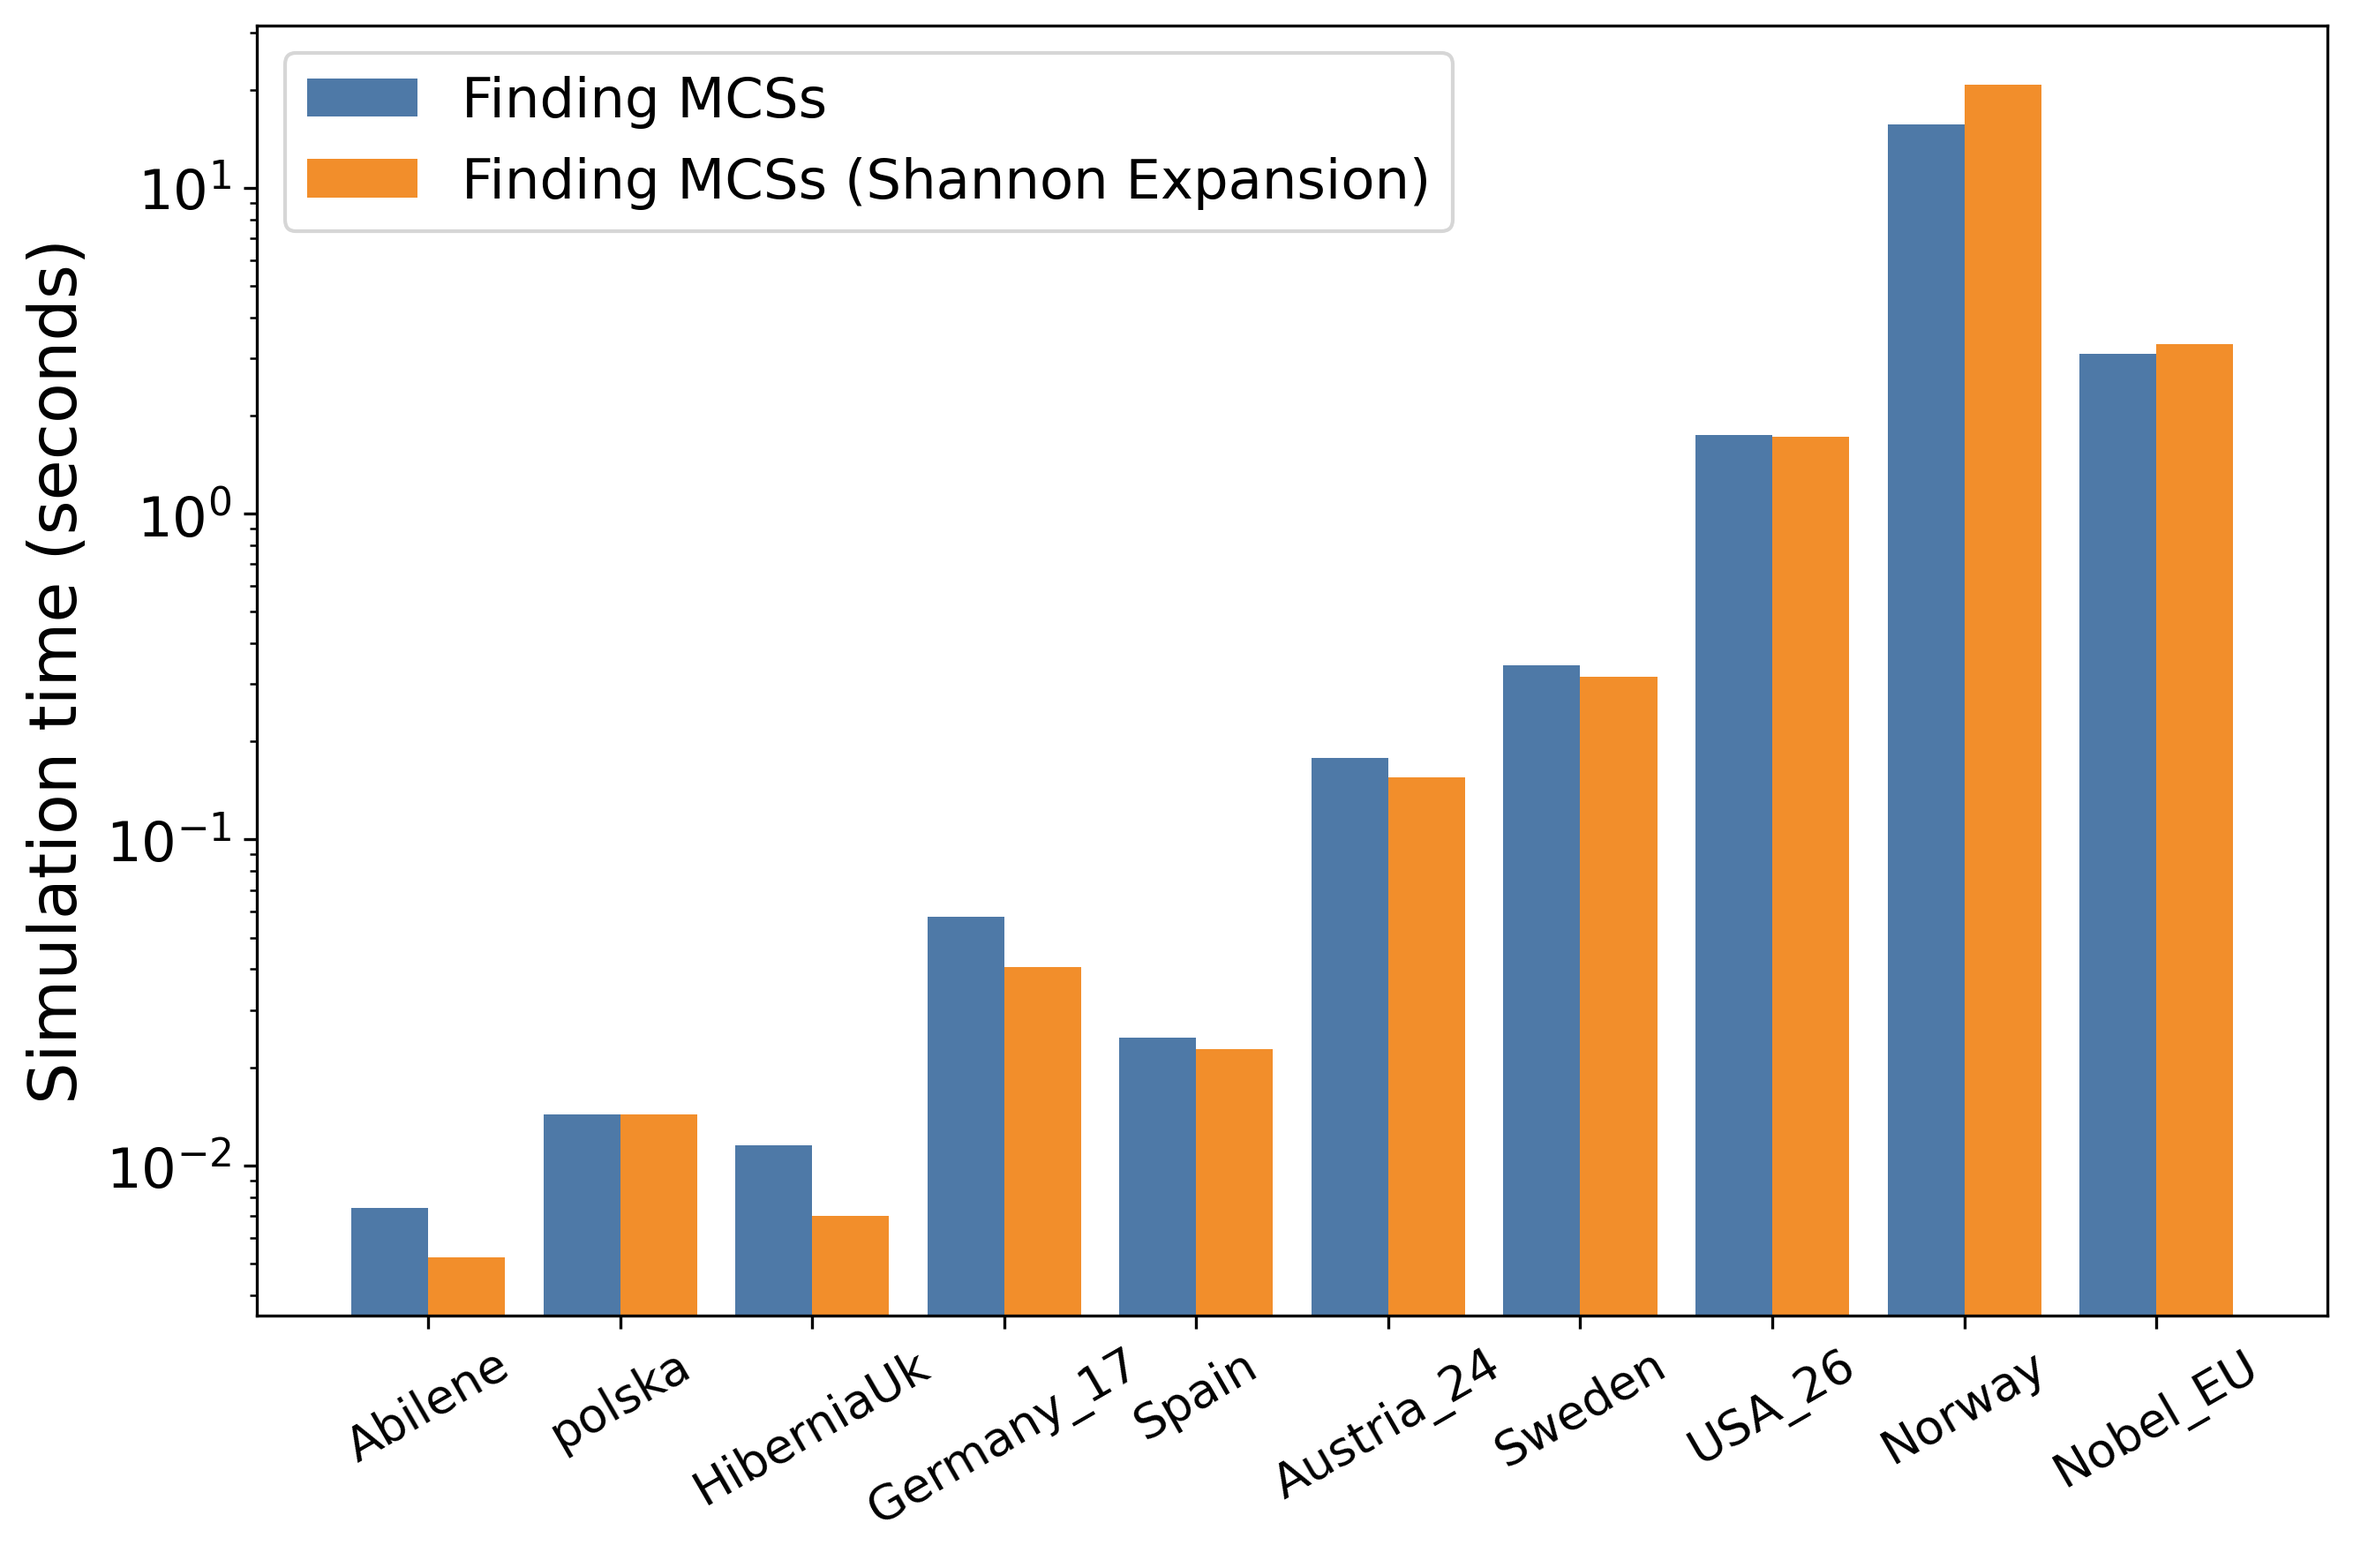
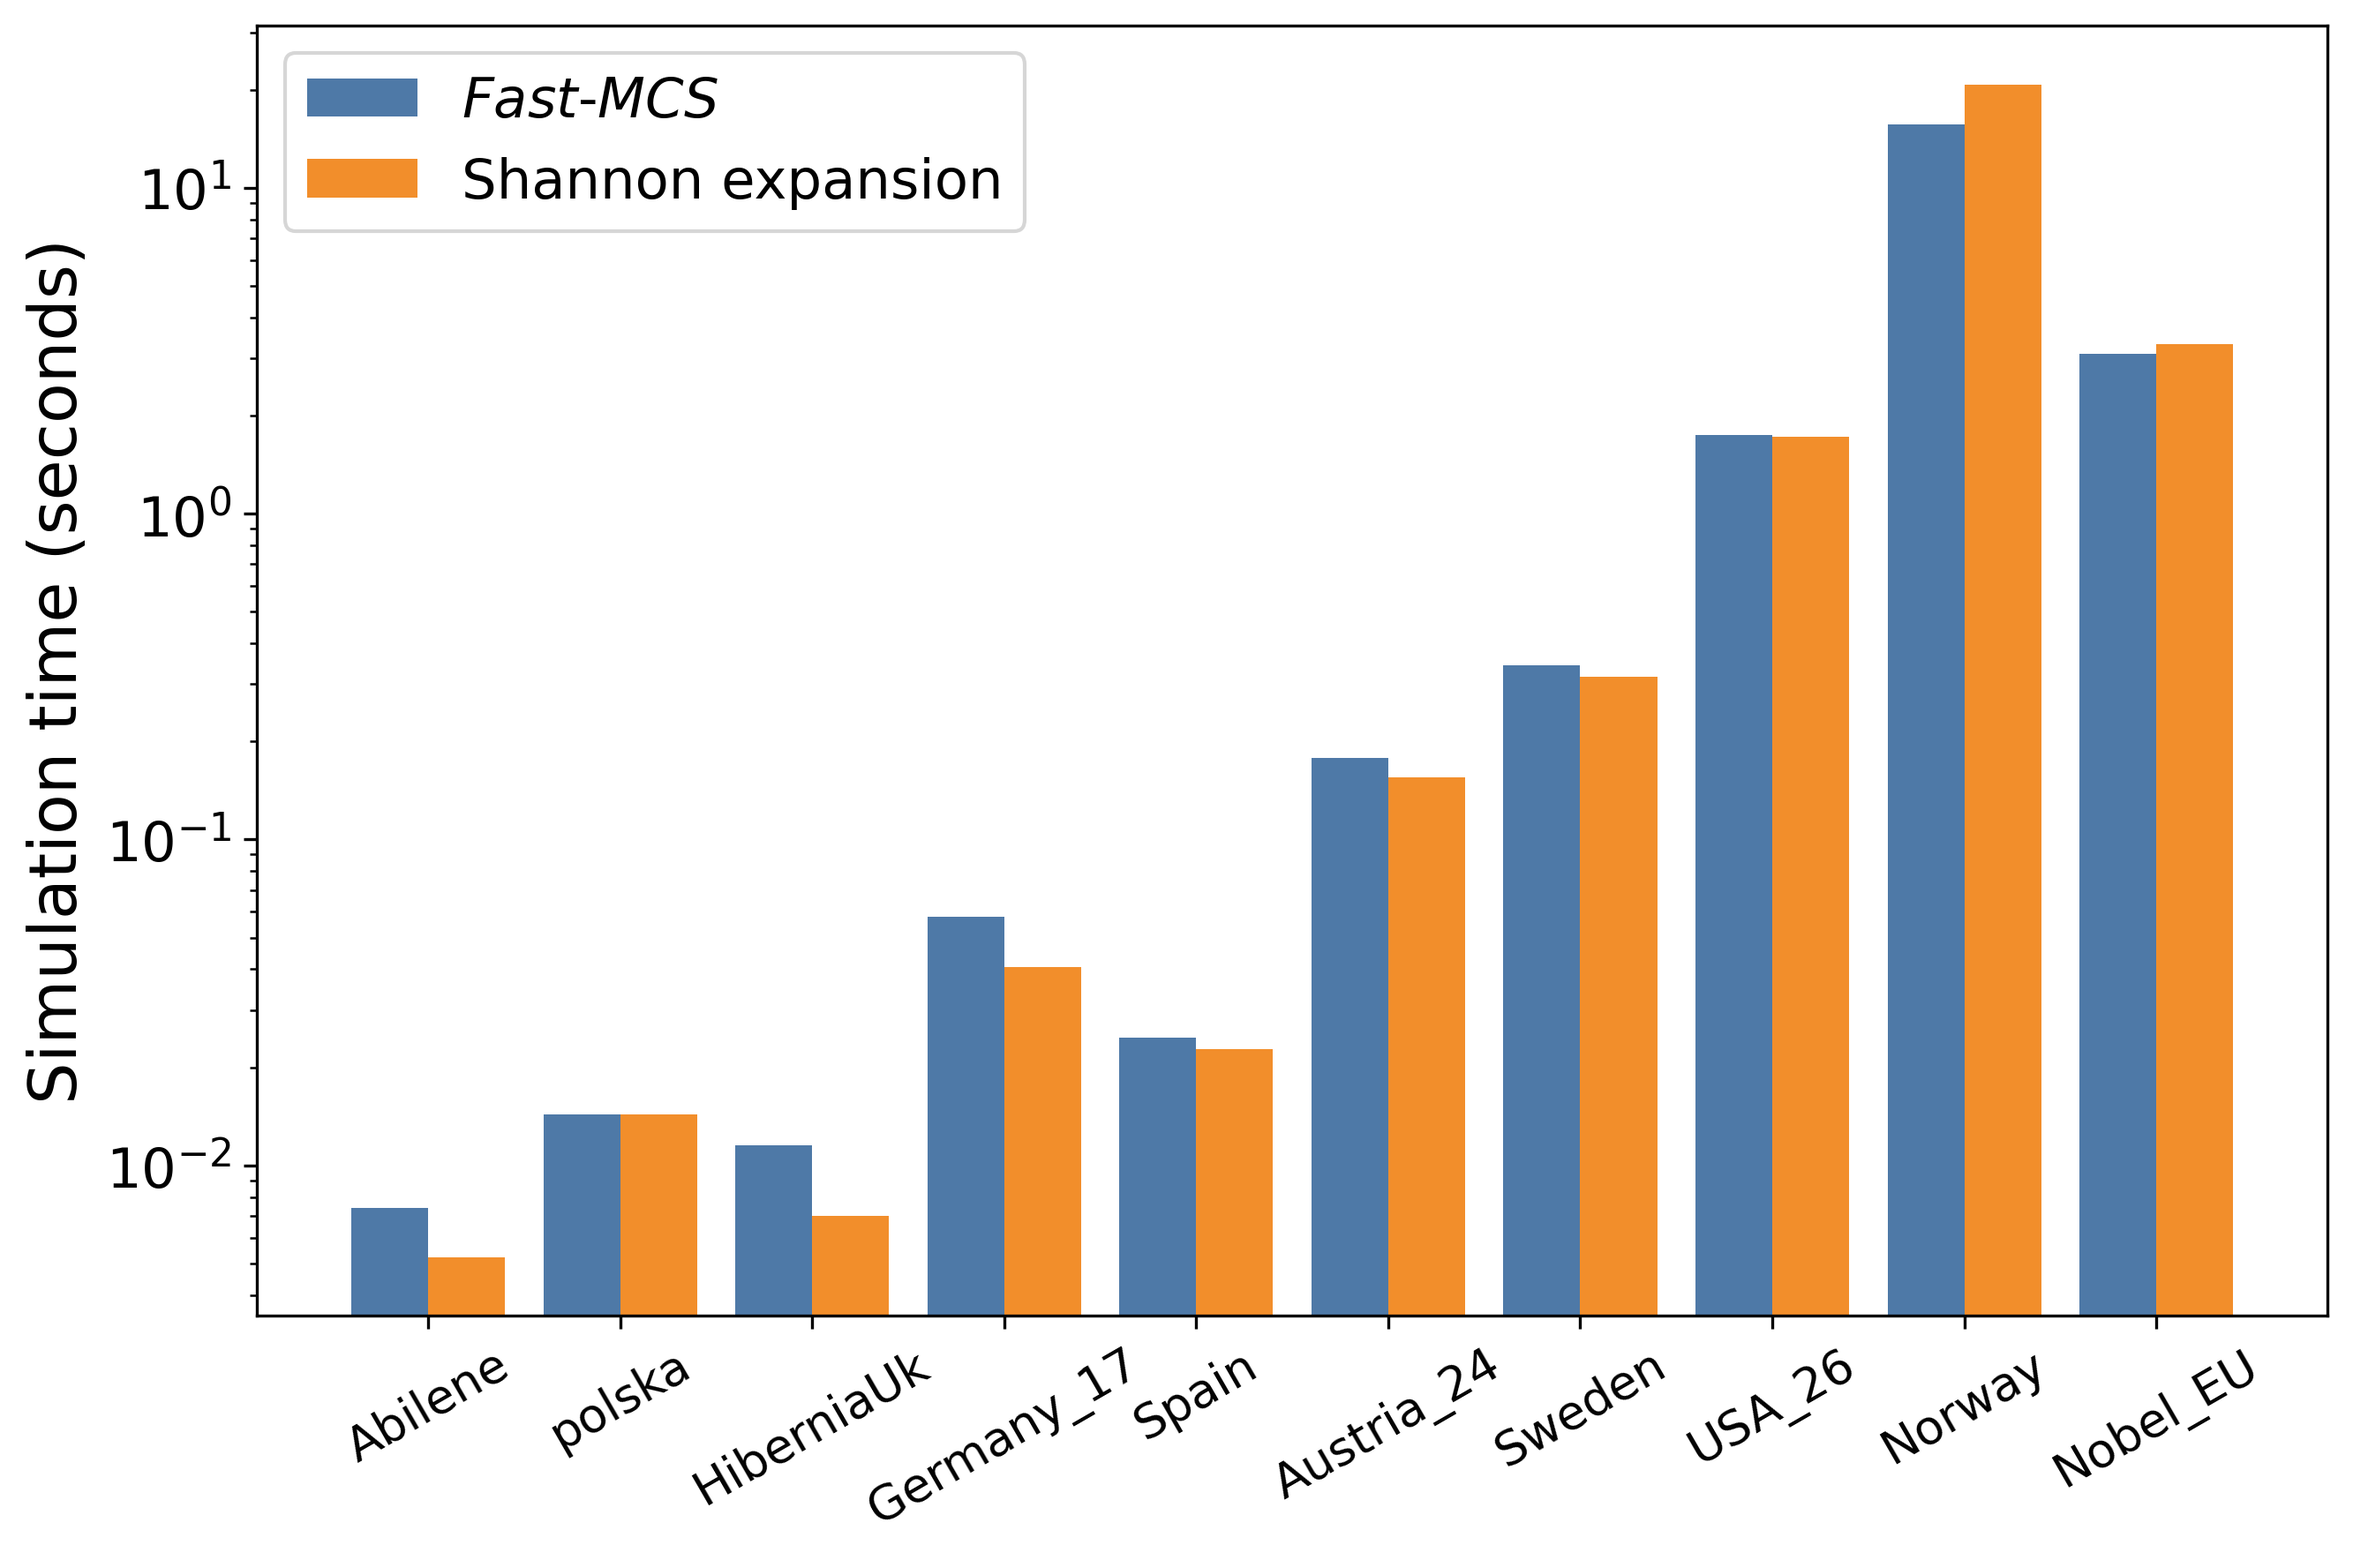
update plots for faster mcs

Changed region(s): [[0.1868, 0.0311, 0.6227, 0.1555]]

diff --git a/plots/paper_faster_mincutset/plot.py b/plots/paper_faster_mincutset/plot.py
@@ -20,8 +20,12 @@ def plot_1(plot_name, topologies=None):
     for topo in topologies:
         # Read the CSV file
         cnf = pd.read_csv(f"benchmark/mincutsets/results/cnf/{topo}_MCS_cnf.csv")
-        combination = pd.read_csv(f"benchmark/mincutsets/results/combination_matrix/{topo}_MCS_combination_matrix.csv")
-        minimalpaths = pd.read_csv(f"benchmark/pathsets/results/minimalpaths/{topo}_Pathsets_minimalpaths.csv")
+        combination = pd.read_csv(
+            f"benchmark/mincutsets/results/combination_matrix/{topo}_MCS_combination_matrix.csv"
+        )
+        minimalpaths = pd.read_csv(
+            f"benchmark/pathsets/results/minimalpaths/{topo}_Pathsets_minimalpaths.csv"
+        )
         # Sum the time columns
         cnf_time = cnf["cnf_time (second)"].sum()
         combination_time = combination["combination_matrix_time (second)"].sum()
@@ -42,25 +46,25 @@ def plot_1(plot_name, topologies=None):
     # x positions for grouped bars
     x = np.arange(len(topologies))
     ax1.bar(
-        x - width/2,
+        x - width / 2,
         minimalpaths_times,
         width,
         label="Finding MPSs",
         color="#08519c",
     )
     ax1.bar(
-        x - width/2,
+        x - width / 2,
         cnf_times,
         width,
-        label="Finding MCSs from MPSs (Improved)",
+        label="Finding MCSs from MPSs",
         color="#B2182B",
         bottom=minimalpaths_times,
     )
     ax1.bar(
-        x + width/2,
+        x + width / 2,
         combination_times,
         width,
-        label="Finding MCSs (Old)",
+        label="Finding MCSs (combinatorial)",
         color="#D57E26",
     )
 
@@ -85,7 +89,9 @@ def plot_1(plot_name, topologies=None):
 
     # Save the plot
     plt.tight_layout()
-    plt.savefig(f"plots/paper_faster_mincutset/{plot_name}.png", dpi=300, bbox_inches="tight")
+    plt.savefig(
+        f"plots/paper_faster_mincutset/{plot_name}.png", dpi=300, bbox_inches="tight"
+    )
     plt.close()
 
 
@@ -95,11 +101,13 @@ def plot_2(plot_name, topologies=None):
     for topo in topologies:
         # Read the CSV file
         cnf = pd.read_csv(f"benchmark/mincutsets/results/cnf/{topo}_MCS_cnf.csv")
-        shannon = pd.read_csv(f"benchmark/mincutsets/results/shannon/{topo}_MCS_shannon.csv")
+        shannon = pd.read_csv(
+            f"benchmark/mincutsets/results/shannon/{topo}_MCS_shannon.csv"
+        )
         # Sum the time columns
         cnf_time.append(cnf["cnf_time (second)"].sum())
         shannon_time.append(shannon["shannon_time (second)"].sum())
-    
+
     # Draw the plot
     fig, ax1 = plt.subplots(figsize=FIG_SIZE)
     width = 0.4  # Bar width for each series
@@ -110,14 +118,14 @@ def plot_2(plot_name, topologies=None):
         x - width / 2,
         cnf_time,
         width,
-        label="Finding MCSs",
+        label=r"$\it{Fast}$-${MCS}$",
         color="#4E79A7",
     )
     ax1.bar(
         x + width / 2,
         shannon_time,
         width,
-        label="Finding MCSs (Shannon Expansion)",
+        label="Shannon expansion",
         color="#F28E2B",
     )
 
@@ -142,8 +150,11 @@ def plot_2(plot_name, topologies=None):
 
     # Save the plot
     plt.tight_layout()
-    plt.savefig(f"plots/paper_faster_mincutset/{plot_name}.png", dpi=300, bbox_inches="tight")
+    plt.savefig(
+        f"plots/paper_faster_mincutset/{plot_name}.png", dpi=300, bbox_inches="tight"
+    )
     plt.close()
+
 
 # plot only mps time
 def plot_3(plot_name, topologies=None):
@@ -151,7 +162,9 @@ def plot_3(plot_name, topologies=None):
     for topo in topologies:
         # G, _, _ = read_graph(f"topologies/{topo}", topo)
         # print(f"Processing topology: {topo} with {len(G.nodes())} nodes and {len(G.edges())} edges")
-        df = pd.read_csv(f"benchmark/pathsets/results/minimalpaths/{topo}_Pathsets_minimalpaths.csv")
+        df = pd.read_csv(
+            f"benchmark/pathsets/results/minimalpaths/{topo}_Pathsets_minimalpaths.csv"
+        )
         # add the sum of "minimalpaths_time (second)" to mps_time
         total_time = df["minimalpaths_time (second)"].sum()
         mps_time.append(total_time)
@@ -159,10 +172,10 @@ def plot_3(plot_name, topologies=None):
     # Draw the plot
     fig, ax1 = plt.subplots(figsize=FIG_SIZE)
     width = 0.5  # Bar width for each series
-    
+
     # x positions for grouped bars
     x = np.arange(len(topologies))
-    
+
     ax1.bar(
         x,
         mps_time,
@@ -170,13 +183,11 @@ def plot_3(plot_name, topologies=None):
         label="Finding MPSs",
         color="#4E79A7",
     )
-    
+
     # Set the x-ticks and labels
     ax1.set_xticks(x)
     # ax1.set_xticklabels(topologies, fontsize=FONT_SIZE - 2, rotation=ROTATION)
-    labels = ax1.set_xticklabels(
-        topologies, fontsize=FONT_SIZE - 2, rotation=ROTATION
-    )
+    labels = ax1.set_xticklabels(topologies, fontsize=FONT_SIZE - 2, rotation=ROTATION)
 
     # Custom adjustment for Germany_17
     for label in labels:
@@ -193,15 +204,16 @@ def plot_3(plot_name, topologies=None):
         loc="upper left",
         fontsize=15,
     )
-    
+
     # Save the plot
     plt.tight_layout()
-    plt.savefig(f"plots/paper_faster_mincutset/{plot_name}.png", dpi=300, bbox_inches="tight")
+    plt.savefig(
+        f"plots/paper_faster_mincutset/{plot_name}.png", dpi=300, bbox_inches="tight"
+    )
     plt.close()
 
 
-
-topos_1= [
+topos_1 = [
     "Abilene",
     "polska",
     "HiberniaUk",
@@ -219,7 +231,7 @@ topos_1= [
     # "zib54",
 ]
 
-topos_2_1= [
+topos_2_1 = [
     "Abilene",
     "polska",
     "HiberniaUk",
@@ -237,13 +249,9 @@ topos_2_1= [
     # "zib54",
 ]
 
-topos_2_2= [
-    "india35",
-    "jonas-us-ca",
-    "pioro40"
-]
+topos_2_2 = ["india35", "jonas-us-ca", "pioro40"]
 
-topos_3= [
+topos_3 = [
     "Abilene",
     "polska",
     "HiberniaUk",
@@ -265,4 +273,3 @@ plot_1("plot_1", topologies=topos_1)
 plot_2("plot_2_1", topologies=topos_2_1)
 plot_2("plot_2_2", topologies=topos_2_2)
 plot_3("plot_3", topologies=topos_3)
-
